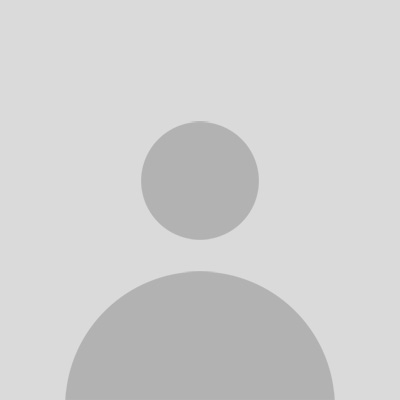
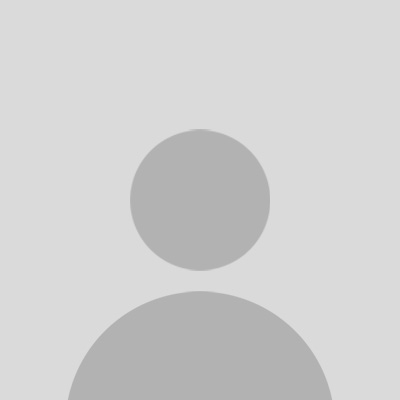
anonymous photo update

Changed region(s): [[0.15, 0.39, 0.84, 1.0], [0.39, 0.3, 0.63, 0.36], [0.36, 0.36, 0.39, 0.39]]

diff --git a/lib/src/user/widgets/default_profile.screen.dart b/lib/src/user/widgets/default_profile.screen.dart
@@ -47,8 +47,7 @@ class _DefaultProfileScreenState extends State<DefaultProfileScreen> {
                               borderRadius: BorderRadius.circular(16),
                               image: DecorationImage(
                                 image: CachedNetworkImageProvider(
-                                  my?.profileBackgroundImageUrl ??
-                                      'https://picsum.photos/id/171/400/900',
+                                  my?.profileBackgroundImageUrl ?? blackUrl,
                                 ),
                                 fit: BoxFit.cover,
                               ),

diff --git a/lib/src/user/widgets/user.avatar.dart b/lib/src/user/widgets/user.avatar.dart
@@ -30,16 +30,11 @@ class UserAvatar extends StatelessWidget {
         return GestureDetector(
           onTap: onTap,
           behavior: HitTestBehavior.opaque,
-          child: url == null
-              ? AnonymousAvatar(
-                  size: size,
-                  radius: radius,
-                )
-              : Avatar(
-                  photoUrl: url,
-                  size: size,
-                  radius: radius,
-                ),
+          child: Avatar(
+            photoUrl: url ?? anonymousUrl,
+            size: size,
+            radius: radius,
+          ),
         );
       },
     );

diff --git a/lib/src/common/assets.dart b/lib/src/common/assets.dart
@@ -1,0 +1,6 @@
+const String whiteUrl =
+    'https://raw.githubusercontent.com/thruthesky/fireship/main/assets/white.jpg';
+const String blackUrl =
+    'https://raw.githubusercontent.com/thruthesky/fireship/main/assets/black.jpg';
+const String anonymousUrl =
+    'https://raw.githubusercontent.com/thruthesky/fireship/main/assets/anonymous.jpg';

diff --git a/lib/fireship.dart b/lib/fireship.dart
@@ -7,6 +7,8 @@ export 'src/admin/widgets/admin.user_list.screen.dart';
 export 'src/admin/widgets/admin.user_update.screen.dart';
 
 /// Common
+///
+export 'src/common/assets.dart';
 export 'src/common/anonymous_avatar.dart';
 export 'src/common/avatar.dart';
 export 'src/common/error_box.dart';

diff --git a/docs/assets.md b/docs/assets.md
@@ -1,0 +1,12 @@
+# Assets
+
+
+Fireship has some default assets.
+
+```text
+https://raw.githubusercontent.com/thruthesky/fireship/main/assets/white.jpg for white background image.
+https://raw.githubusercontent.com/thruthesky/fireship/main/assets/black.jpg for black backgroudn image.
+https://raw.githubusercontent.com/thruthesky/fireship/main/assets/anonymous.jpg for displaying anonymous photo.
+```
+
+You may use these images with CachedNetworkImage.
